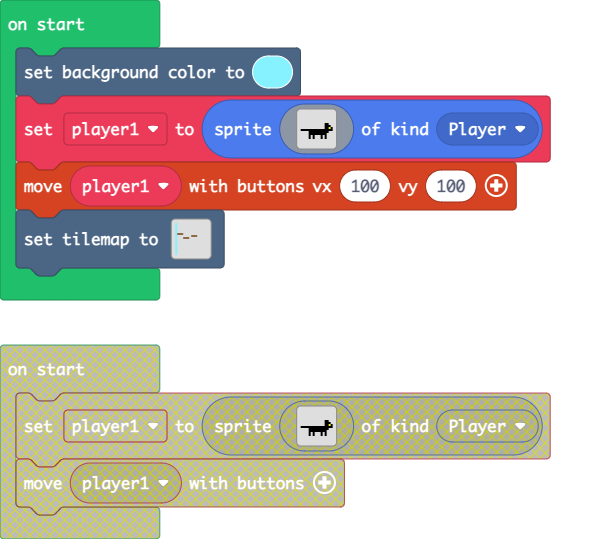
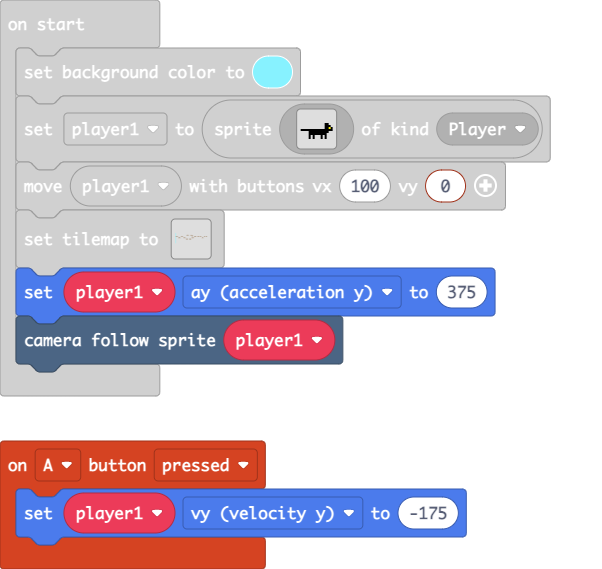
Update main.blocks, main.ts, images.g.jres, images.g.ts, tilemap.g.jres, tilemap.g.ts

diff --git a/tilemap.g.ts b/tilemap.g.ts
@@ -10,23 +10,23 @@ namespace myTiles {
     helpers._registerFactory("tilemap", function(name: string) {
         switch(helpers.stringTrim(name)) {
             case "level1":
-            case "level1":return tiles.createTilemap(hex`1000100002000000000000000000000000000000020000000000000000000000000000000200000000000000000000000000000002000000000000000000000000000000020000000000000000000000000000000201010100000000000000000000000002000000000000000101010000000000020000000101010000000000000000000200000000000000000000000000000002000000000000000000000000000000020000000000000000000000000000000200000000000000000000000000000002000000000000000000000000000000020000000000000000000000000000000200000000000000000000000000000002000000000000000000000000000000`, img`
-. . . . . . . . . . . . . . . . 
-. . . . . . . . . . . . . . . . 
-. . . . . . . . . . . . . . . . 
-. . . . . . . . . . . . . . . . 
-. . . . . . . . . . . . . . . . 
-. 2 2 2 . . . . . . . . . . . . 
-. . . . . . . . 2 2 2 . . . . . 
-. . . . 2 2 2 . . . . . . . . . 
-. . . . . . . . . . . . . . . . 
-. . . . . . . . . . . . . . . . 
-. . . . . . . . . . . . . . . . 
-. . . . . . . . . . . . . . . . 
-. . . . . . . . . . . . . . . . 
-. . . . . . . . . . . . . . . . 
-. . . . . . . . . . . . . . . . 
-. . . . . . . . . . . . . . . . 
+            case "level1":return tiles.createTilemap(hex`320010000200000000000000000000000000000000000000000000000000000000000000000000000000000000000000000000000000020000000000000000000000000000000000000000000000000000000000000000000000000000000000000000000000000002000000000000000000000000000000000000000000000000000000000000000000000000000000000000000000000000000200000000000000000000000000000000000101010000000101000000000000000000000000000000000000000000000000020000000000000000000000000000000000000000000000000001010000000000000000000000000000000000000000000002010101000000000001010100000000000000000000000000000000000001010100000101010001010000000001010001010200000000000000000000000000000000000000000000000000000000000000000000000000000000000000000000000000020000000001010100000000000101010000000000000000000001010100000000000000000000000000010100000000000002000000000000000000000000000000000000000000000000000000000000000000000000000000000000000000000000000200000000000000000000000000000000010101000001010100000000000000000000000000000000000000000000000000020000000000000000000000000000000000000000000000000000000000000000000000000000000000000000000000000002000000000000000000000000000000000000000000000000000000000000000000000000000000000000000000000000000200000000000000000000000000000000000000000000000000000000000000000000000000000000000000000000000000020000000000000000000000000000000000000000000000000000000000000000000000000000000000000000000000000002000000000000000000000000000000000000000000000000000000000000000000000000000000000000000000000000000200000000000000000000000000000000000000000000000000000000000000000000000000000000000000000000000000`, img`
+..................................................
+..................................................
+..................................................
+..................222...22........................
+..........................22......................
+.222.....222..................222..222.22....22.22
+..................................................
+.....222.....222..........222.............22......
+..................................................
+.................222..222.........................
+..................................................
+..................................................
+..................................................
+..................................................
+..................................................
+..................................................
 `, [myTiles.transparency16,myTiles.tile1,myTiles.tile2], TileScale.Sixteen);
         }
         return null;

diff --git a/images.g.ts b/images.g.ts
@@ -21,24 +21,6 @@ f f f f f f f f f f f f f f f f
 . . . . . . . . . . . . . . . . 
 . . . . . . . . . . . . . . . . 
 `;
-            case "image2":return img`
-. . . . . . . . . . . . . . . . 
-. . . . . . . . . . . . . . . . 
-. . . . . . . . . . . . . . . . 
-. . . . . . . . . . . . . . . . 
-. . . . . . . . . . . . . . . . 
-. . . . . . . . . . . . f f . . 
-. . . . . . . . . . . . f f f . 
-. . . . . . . . . . . . f f 5 f 
-f f f f f f f f f f f f f f f f 
-. . . . f f f f f f f f f f . . 
-. . . . f f f f f f f f f . . . 
-. . . . f . f . . . f . f . . . 
-. . . . f . f . . . f . f . . . 
-. . . . . . . . . . . . . . . . 
-. . . . . . . . . . . . . . . . 
-. . . . . . . . . . . . . . . . 
-`;
         }
         return null;
     })

diff --git a/main.ts b/main.ts
@@ -1,5 +1,9 @@
+controller.A.onEvent(ControllerButtonEvent.Pressed, function () {
+    player1.vy = -175
+})
+let player1: Sprite = null
 scene.setBackgroundColor(9)
-let player1 = sprites.create(img`
+player1 = sprites.create(img`
     . . . . . . . . . . . . . . . . 
     . . . . . . . . . . . . . . . . 
     . . . . . . . . . . . . . . . . 
@@ -17,5 +21,7 @@ let player1 = sprites.create(img`
     . . . . . . . . . . . . . . . . 
     . . . . . . . . . . . . . . . . 
     `, SpriteKind.Player)
-controller.moveSprite(player1, 100, 100)
+controller.moveSprite(player1, 100, 0)
 tiles.setTilemap(tilemap`level1`)
+player1.ay = 375
+scene.cameraFollowSprite(player1)
